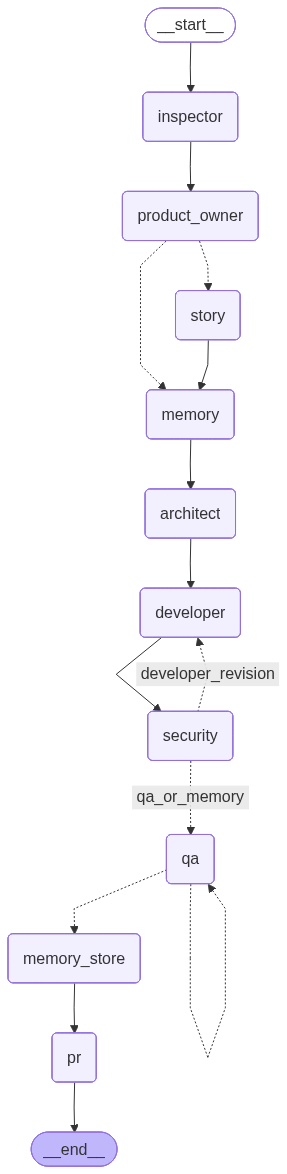
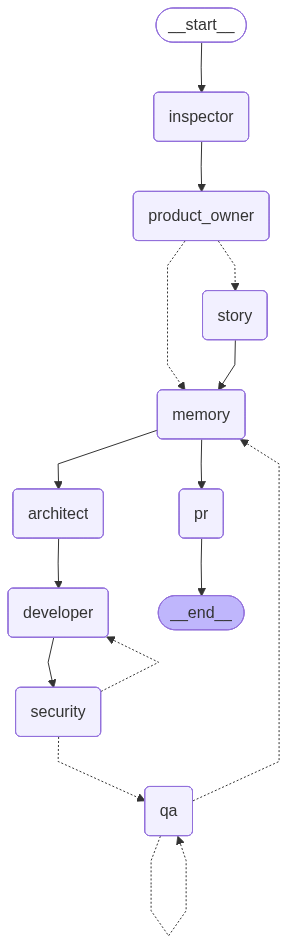
fixed graph workflow directions & orders and state params

diff --git a/graph.py b/graph.py
@@ -1,6 +1,3 @@
-from dotenv import load_dotenv
-load_dotenv()
-
 from langgraph.graph import StateGraph, END
 
 from state import TeamOfBobsState
@@ -8,10 +5,7 @@ from state import TeamOfBobsState
 from agents.inspector_bob import inspector_bob
 from agents.product_owner_bob import product_owner_bob
 from agents.story_bob import story_bob
-from agents.memory_bob import (
-    memory_retrieve_bob,
-    memory_store_bob
-)
+from agents.memory_bob import memory_bob
 from agents.architect_bob import architect_bob
 from agents.developer_bob import developer_bob
 from agents.security_bob import security_bob
@@ -24,78 +18,30 @@ def should_run_story(state):
 
 
 def should_run_qa(state):
-    return "qa" if state.get("invoke_qa_bob") else "memory_store"
+    return "qa" if state.get("invoke_qa_bob") else "memory"
 
 
 def should_revise_after_security(state):
-    return (
-        "developer_revision"
-        if not state.get("security_approved")
-        else "qa_or_memory"
-    )
+    return "developer" if not state.get("security_approved") else "qa"
 
 
 workflow = StateGraph(TeamOfBobsState)
 
-# Nodes
-
 workflow.add_node("inspector", inspector_bob)
+workflow.add_node("product_owner", product_owner_bob)
+workflow.add_node("story", story_bob)
+workflow.add_node("memory", memory_bob)
+workflow.add_node("architect", architect_bob)
+workflow.add_node("developer", developer_bob)
+workflow.add_node("security", security_bob)
+workflow.add_node("qa", qa_bob)
+workflow.add_node("pr", pr_creator_bob)
 
-workflow.add_node(
-    "product_owner",
-    product_owner_bob
-)
-
-workflow.add_node(
-    "story",
-    story_bob
-)
-
-workflow.add_node(
-    "memory",
-    memory_retrieve_bob
-)
-
-workflow.add_node(
-    "architect",
-    architect_bob
-)
-
-workflow.add_node(
-    "developer",
-    developer_bob
-)
-
-workflow.add_node(
-    "security",
-    security_bob
-)
-
-workflow.add_node(
-    "qa",
-    qa_bob
-)
-
-workflow.add_node(
-    "memory_store",
-    memory_store_bob
-)
-
-workflow.add_node(
-    "pr",
-    pr_creator_bob
-)
-
-# Entry
 
 workflow.set_entry_point("inspector")
 
-# Flow
 
-workflow.add_edge(
-    "inspector",
-    "product_owner"
-)
+workflow.add_edge("inspector", "product_owner")
 
 workflow.add_conditional_edges(
     "product_owner",
@@ -106,32 +52,17 @@ workflow.add_conditional_edges(
     }
 )
 
-workflow.add_edge(
-    "story",
-    "memory"
-)
-
-workflow.add_edge(
-    "memory",
-    "architect"
-)
-
-workflow.add_edge(
-    "architect",
-    "developer"
-)
-
-workflow.add_edge(
-    "developer",
-    "security"
-)
+workflow.add_edge("story", "memory")
+workflow.add_edge("memory", "architect")
+workflow.add_edge("architect", "developer")
+workflow.add_edge("developer", "security")
 
 workflow.add_conditional_edges(
     "security",
     should_revise_after_security,
     {
-        "developer_revision": "developer",
-        "qa_or_memory": "qa"
+        "developer": "developer",
+        "qa": "qa"
     }
 )
 
@@ -140,25 +71,11 @@ workflow.add_conditional_edges(
     should_run_qa,
     {
         "qa": "qa",
-        "memory_store": "memory_store"
+        "memory": "memory"
     }
 )
 
-workflow.add_edge(
-    "memory_store",
-    "pr"
-)
-
-workflow.add_edge(
-    "pr",
-    END
-)
+workflow.add_edge("memory", "pr")
+workflow.add_edge("pr", END)
 
 app = workflow.compile()
-
-if __name__ == "__main__":
-    app.get_graph().draw_mermaid_png(
-        output_file_path="docs/workflow.png"
-    )
-
-    print("Workflow graph generated at workflow.png")

diff --git a/agents/memory_bob.py b/agents/memory_bob.py
@@ -24,27 +24,24 @@ def store_incident_resolution(issue, resolution):
     print("Storing resolution into memory database...")
 
 
-def memory_retrieve_bob(state):
-    task = state.get("task")
+def memory_bob(state):
+    if state.get("qa_report"):
+        issue = state.get("task")
 
-    matches = retrieve_similar_incidents(task)
+        resolution = {
+            "architecture": state.get("architecture_plan"),
+            "code_changes": state.get("code_changes"),
+            "qa_report": state.get("qa_report"),
+        }
 
-    state["memory_matches"] = matches
+        store_incident_resolution(issue, resolution)
 
-    return state
+        state["memory_store_complete"] = True
+    else:
+        task = state.get("task")
 
+        matches = retrieve_similar_incidents(task)
 
-def memory_store_bob(state):
-    issue = state.get("task")
-
-    resolution = {
-        "architecture": state.get("architecture_plan"),
-        "code_changes": state.get("code_changes"),
-        "qa_report": state.get("qa_report"),
-    }
-
-    store_incident_resolution(issue, resolution)
-
-    state["memory_store_complete"] = True
+        state["memory_matches"] = matches
 
     return state

diff --git a/workflow.py b/workflow.py
@@ -1,0 +1,11 @@
+from dotenv import load_dotenv
+load_dotenv()
+
+from graph import app
+
+if __name__ == "__main__":
+    app.get_graph().draw_mermaid_png(
+        output_file_path="docs/workflow.png"
+    )
+
+    print("Workflow graph generated in docs")
